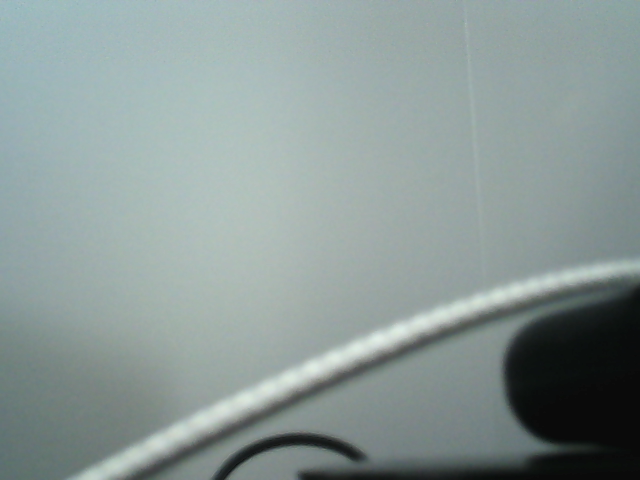
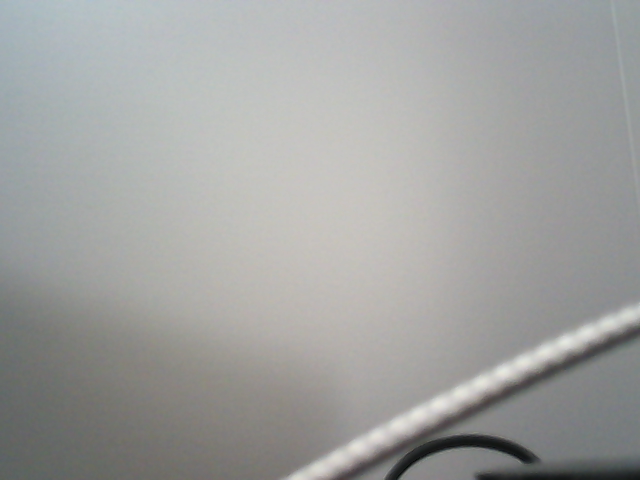
correct camera port

diff --git a/src/app.py b/src/app.py
@@ -90,6 +90,11 @@ def mergeAnnotations(filename):
     mergeFile_thread = Thread(target = mergeFile.main, args=[ANNOTATIONS_IMAGES_DIR_PATH, codefile_path])
     mergeFile_thread.start()
 
+    return jsonify({
+        "status": "success",
+        "filename": filename
+    })
+
 @app.route('/download/<filename>')
 def download_file(filename):
     file_path = os.path.join(FILE_UPLOAD_DIR, filename)
@@ -108,9 +113,9 @@ def code(filename, imageIndex):
     
     annotation_image_path = os.path.join(STATIC_DIR_PATH, "camera_display.png")
     
-    global annotation_image_thread_display
-    annotation_image_thread_display = Thread(target=camera.capture_picture, args=[annotation_image_path])
-    annotation_image_thread_display.start()
+    # global annotation_image_thread_display
+    # annotation_image_thread_display = Thread(target=camera.capture_picture, args=[annotation_image_path])
+    # annotation_image_thread_display.start()
 
     
     def open_image():

diff --git a/src/camera.py b/src/camera.py
@@ -7,7 +7,7 @@ load_dotenv()
 
 # CAMERA_PORT = int(os.getenv("CAMERA_PORT"))
 
-cam = cv2.VideoCapture(0)
+cam = cv2.VideoCapture(1)
 
 def capture_picture(image_path):
 
@@ -21,3 +21,5 @@ def capture_picture(image_path):
 
         print(image_path)
         print("done saving picture")
+
+capture_picture("./img.png")
